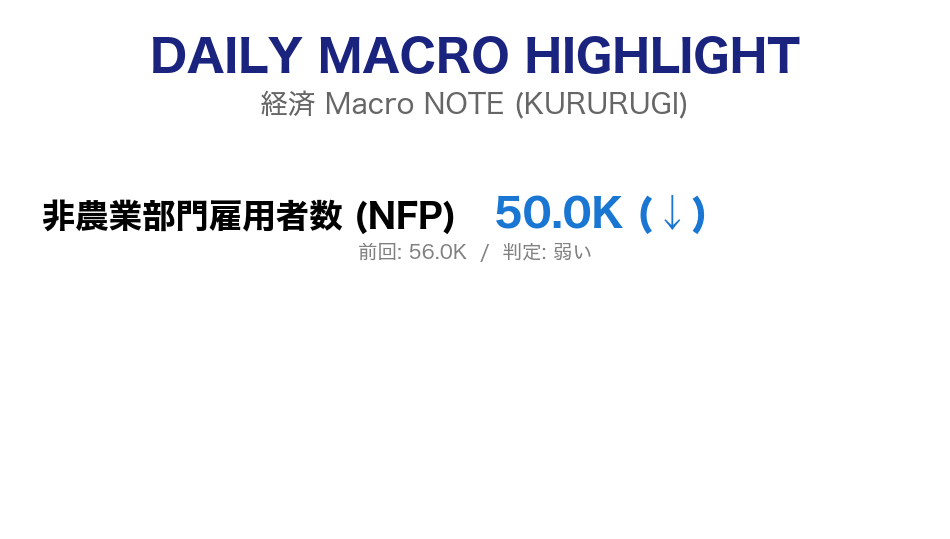
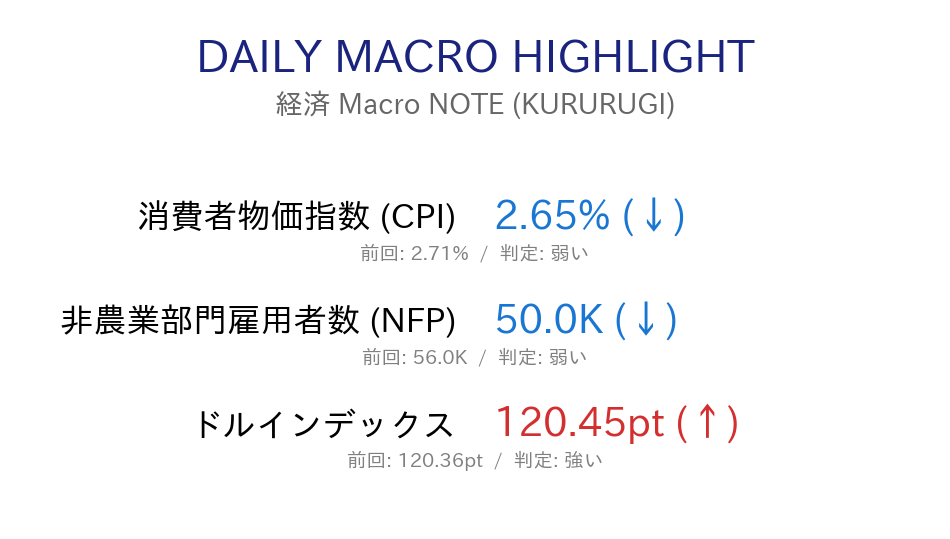
Final: Professional layout with 3 indicators and Japanese font

diff --git a/src/run.py b/src/run.py
@@ -90,7 +90,10 @@ def main():
     ax_sns.axis('off')
     plt.text(0.5, 0.88, "DAILY MACRO HIGHLIGHT", transform=ax_sns.transAxes, ha='center', fontsize=32, fontweight='bold', color='#1A237E')
     plt.text(0.5, 0.80, "経済 Macro NOTE (KURURUGI)", transform=ax_sns.transAxes, ha='center', fontsize=20, color='#666666')
-    target_labels = ["フィラデルフィア連銀景況指数", "ドルインデックス (先進国)", "非農業部門雇用者数 (NFP)"]
+
+    # 🌟 YAML（indicators.yml）の label と一字一句合わせました
+    target_labels = ["非農業部門雇用者数 (NFP)" ,"ドルインデックス" ,"消費者物価指数 (CPI)"]
+
     picks = [r for r in results if r[1] in target_labels]
     for i, h in enumerate(picks[:3]):
         y = 0.58 - (i * 0.20)
@@ -100,6 +103,11 @@ def main():
         plt.text(0.50, y - 0.06, f"前回: {h[3]}  /  判定: {h[5]}", transform=ax_sns.transAxes, ha='center', fontsize=14, color='gray')
     plt.savefig(f"{OUTPUT_DIR}/sns_share.png", bbox_inches='tight', dpi=100, facecolor='white')
 
+    # 🌟 データの取得状況をチェックする「安全ネット」を追加
+    if not results:
+        print("❌ データが取得できませんでした。APIキーの設定やネットワークを確認してください。")
+        return
+    
     # 3. AI分析
     analysis = generate_ai_analysis(results)
     with open(f"{OUTPUT_DIR}/analysis.md", "w", encoding="utf-8") as f:
